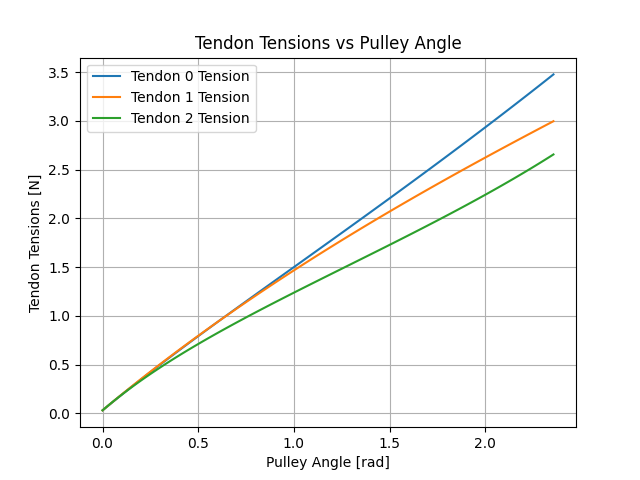
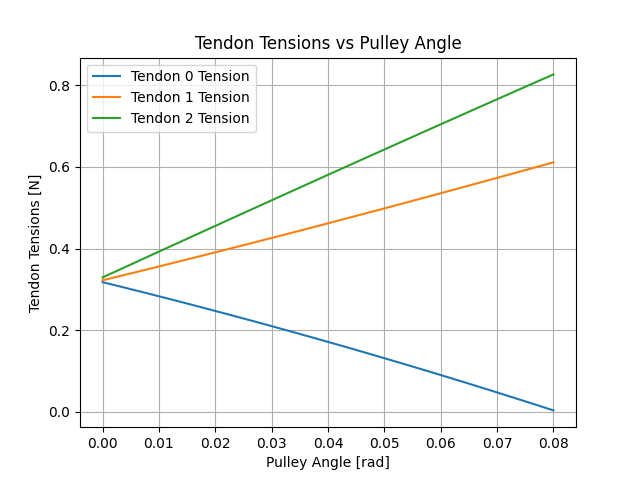
Added the code to calculate the foot metric

diff --git a/utility_functions/statics_functions/statics_simulation.py b/utility_functions/statics_functions/statics_simulation.py
@@ -1,0 +1,43 @@
+#in this file we perfomr the statics simulation that will be used for the foot metric
+
+# import the necessary libraries
+import numpy as np
+import copy
+
+
+def statics_simulation(finger,forces):
+
+    n_simulations = len(forces)
+
+    # Preallocate arrays for results
+    joint_angles = np.zeros((n_simulations, finger.n_joints))
+    tendon_tensions = np.zeros((n_simulations, finger.n_tendons))
+    motor_torque = np.zeros(n_simulations)
+    errors = np.zeros(n_simulations)
+
+    #clone the original finger object
+    finger_clone = copy.deepcopy(finger)
+
+    for i in range(n_simulations):
+
+        Fx = np.zeros(finger_clone.n_joints)
+        Fy = np.zeros(finger_clone.n_joints)
+        M = np.zeros(finger_clone.n_joints)
+
+        Fx[-1]= forces[i]
+
+        #update the forces
+        finger_clone.update_given_phalanx_wrenches(Fx,Fy,M)
+
+        #store the joint angles and tendon tensions
+        for j in range(finger_clone.n_joints):
+            joint_angles[i,j] = finger_clone.joints[j].theta
+
+        for j in range(finger_clone.n_tendons):
+            tendon_tensions[i,j] = finger_clone.tendons[j].tension
+
+        #store the motor torque and error
+        motor_torque[i] = finger_clone.motor_torque
+        errors[i] = finger_clone.error
+
+    return joint_angles, tendon_tensions, motor_torque, errors

diff --git a/main.py b/main.py
@@ -5,6 +5,7 @@ from utility_functions.plot_functions.plot_results import plot_results
 from utility_functions.plot_functions.plot_finger import make_animation
 from utility_functions.kinematics_functions.kinematics_simulation import kinematics_simulation
 from utility_functions.metrics_functions.metrics_calculation import compute_hand_metric
+from utility_functions.statics_functions.statics_simulation import statics_simulation
 
 
 
@@ -330,7 +331,7 @@ def metrics_debug():
 
     inf_stiff_tendons = [1, 1, 1]
     k_tendons = [0, 0, 0]
-    l_springs = [1e-4, 1e-4]
+    l_springs = [1e-3, 1e-3]
     l_0_springs = [0, 0]
     k_springs = [320, 320]
     pulley_radius_functions = [lambda x: 0.01]
@@ -345,6 +346,18 @@ def metrics_debug():
     hand_metric_2 = compute_hand_metric(finger_2, pulley_angles)
 
     print(f'The hand metric for 2 phalanges is {hand_metric_2}')
+
+    # Simulation parameters
+    num_simulations = 100
+    force = np.linspace(0, -8e-2, num_simulations)
+
+    # Run the simulation
+    joint_angles, tendon_tensions, motor_torque, errors = statics_simulation(finger_2, force)
+
+    plot_results(finger_2, -force, joint_angles, tendon_tensions, motor_torque, errors,"saved_media")
+
+    # Plot the finger video
+    make_animation(finger_2,joint_angles)
 
 
 

diff --git a/utility_functions/kinematics_functions/kinematics_simulation.py b/utility_functions/kinematics_functions/kinematics_simulation.py
@@ -20,10 +20,10 @@ def kinematics_simulation(finger, pulley_angles):
         finger_clone.update_given_pulley_angle(pulley_angles[i])
         
         # Store the joint angles and tendon tensions
-        for j in range(finger.n_joints):
+        for j in range(finger_clone.n_joints):
             joint_angles[i, j] = finger_clone.joints[j].theta
         
-        for j in range(finger.n_tendons):
+        for j in range(finger_clone.n_tendons):
             tendon_tensions[i, j] = finger_clone.tendons[j].tension
         
         # Store the motor torque and error

diff --git a/utility_functions/plot_functions/plot_finger.py b/utility_functions/plot_functions/plot_finger.py
@@ -43,7 +43,7 @@ def plot_finger(ax,finger,joint_angles):
         l_max += L_phalanxes[i_iter]
         
     l_max = l_max + 2*r_tip
-    ax.set_xlim(-r_joints[0],l_max)
+    ax.set_xlim(-l_max,l_max)
     ax.set_ylim(-l_max,l_max)
 
     # we set the ticks to be invisible
